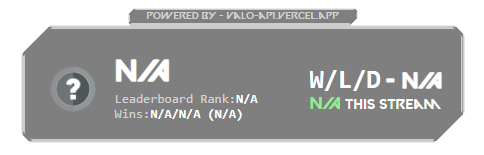
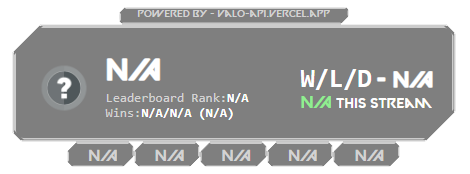
Update overlay-reference files to display player's mmr change in the last 5 matches

Changed region(s): [[0.0298, 0.0258, 0.983, 0.9548]]

diff --git a/docs/overlay-reference/leaderboardrank-record.md b/docs/overlay-reference/leaderboardrank-record.md
@@ -57,6 +57,7 @@ To add the LeaderboardRank-Record overlay to your stream, follow these steps:
 ### Additional Notes
 
 - The LeaderboardRank-Record overlay is designed to display the player's current rank, leaderboard rank with number of wins per total games for the current act and MMR history during the stream. It calculates wins, losses, draws, and RR (Rank Rating) changes based on the stream's start time.
+- It also displays the player's mmr change in the last 5 matches at the bottom of the overlay.
 - If the player's rank, leaderboard rank or record is not available, the overlay will display a message indicating that the data is not available.
 - If the player's rr change is negative, it will be displayed in <span style= "color:tomato">red</span> to indicate a decrease in RR. Similarly, if the rr change is positive, it will be displayed in <span style="color:lightgreen">green</span> to indicate an increase in RR.
 - The overlay is updated in real-time as the stream progresses, providing viewers with up-to-date information on the player's rank, leaderboard rank and performance. It may take a minute or two for the overlay to reflect changes after a match has ended.

diff --git a/docs/overlay-reference/rank-record.md b/docs/overlay-reference/rank-record.md
@@ -57,6 +57,7 @@ To add the Rank-Record overlay to your stream, follow these steps:
 ### Additional Notes
 
 - The Rank-Record overlay is designed to display the player's current rank and MMR history during the stream. It calculates wins, losses, draws, and RR (Rank Rating) changes based on the stream's start time.
+- It also displays the player's mmr change in the last 5 matches at the bottom of the overlay.
 - If the player's rank or record is not available, the overlay will display a message indicating that the data is not available.
 - If the player's rr change is negative, it will be displayed in <span style= "color:tomato">red</span> to indicate a decrease in RR. Similarly, if the rr change is positive, it will be displayed in <span style="color:lightgreen">green</span> to indicate an increase in RR.
 - The overlay is updated in real-time as the stream progresses, providing viewers with up-to-date information on the player's rank and performance. It may take a minute or two for the overlay to reflect changes after a match has ended.
